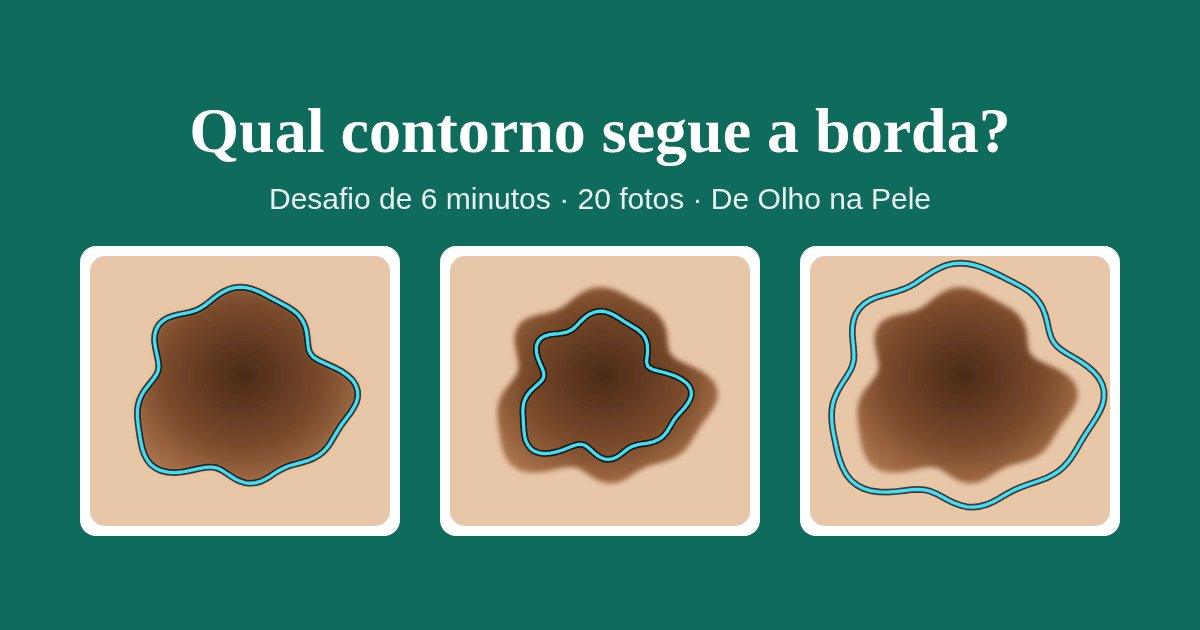
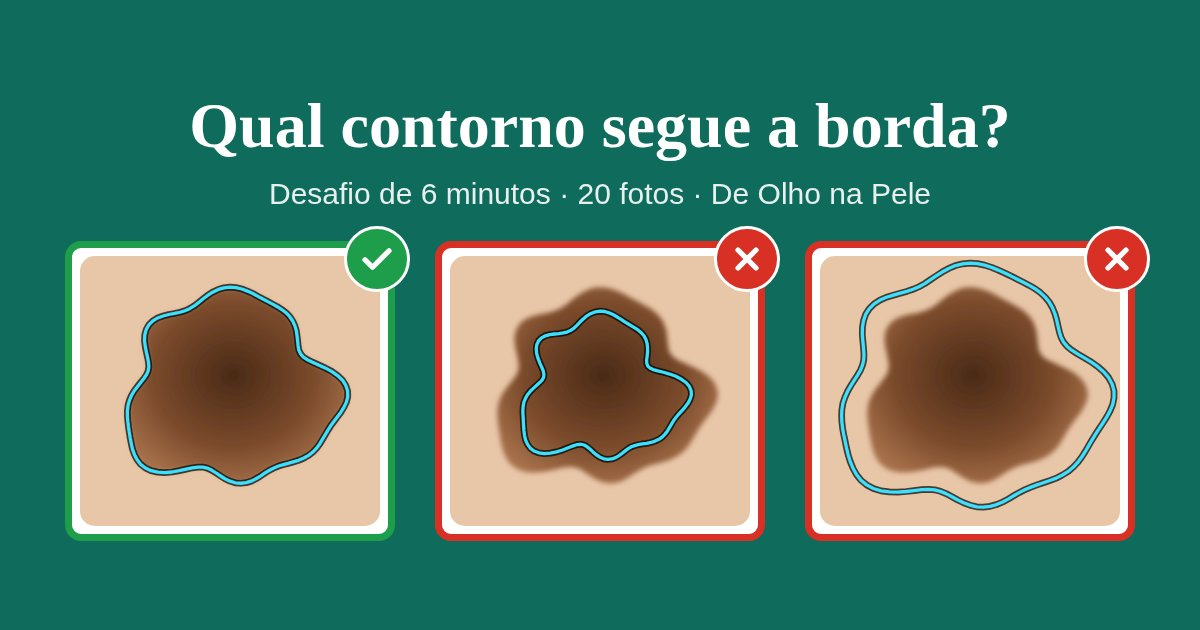
painel: exemplo com moldura verde/certo e vermelha/errado; capa do link idem
Claude-Session: https://claude.ai/code/session_01Byw2vsqtUZhDbw1n3RnuWN

diff --git a/desafio-contorno/painel/index.html b/desafio-contorno/painel/index.html
@@ -74,11 +74,16 @@ textarea{width:100%;font:13px var(--mono);padding:8px;border:1px solid var(--lin
   .exemplo h2{font:600 18px/1.3 var(--body);margin:0 0 6px}
   .ex-grade{display:grid;grid-template-columns:repeat(3,1fr);gap:12px;margin-top:10px}
   .ex-grade figure{margin:0;text-align:center}
-  .ex-grade svg{width:100%;height:auto;display:block}
+  .ex-grade figure>svg{width:100%;height:auto;display:block}
   .ex-grade figcaption{margin-top:6px;font:14px/1.3 var(--body);padding:0;border:0}
   .ex-grade figcaption .small{font-size:12.5px}
   .ex-grade figure{border:0;background:none}
   @media (max-width:560px){.ex-grade{grid-template-columns:1fr;max-width:260px;margin-left:auto;margin-right:auto}}
+  .ex-grade figure.ok,.ex-grade figure.no{position:relative;border:4px solid;border-radius:14px;padding:6px;background:var(--surface);overflow:visible;margin-top:10px}
+  .ex-grade figure.ok{border-color:#1e9e4a}.ex-grade figure.no{border-color:#d93025}
+  .ex-grade .selo{position:absolute;top:-16px;right:-12px;width:40px;height:40px;border-radius:50%;display:grid;place-items:center;box-shadow:0 1px 3px rgba(0,0,0,.35);border:2px solid #fff}.ex-grade .selo svg{width:22px;height:22px}
+  .ex-grade .ok .selo{background:#1e9e4a}.ex-grade .no .selo{background:#d93025}
+  .ex-grade .ok b{color:#1e9e4a}.ex-grade .no b{color:#d93025}
 </style>
 
 <style>[hidden]{display:none!important}body{margin:0}img{max-width:100%}</style>
@@ -98,9 +103,9 @@ textarea{width:100%;font:13px var(--mono);padding:8px;border:1px solid var(--lin
       <h2 data-i="ex_t">Antes de começar: o que é seguir a borda</h2>
       <p class="muted" data-i="ex_p">A borda da lesão é o limite onde a pigmentação termina e começa a pele normal. Um bom contorno acompanha esse limite. O desenho abaixo é só um exemplo esquemático, não é uma foto do estudo.</p>
       <div class="ex-grade">
-        <figure><svg viewBox="0 0 200 180" role="img" aria-hidden="true"><defs><radialGradient id="ga" cx="48%" cy="45%" r="60%"><stop offset="0" stop-color="#4a2a17"/><stop offset=".6" stop-color="#7a4a2b"/><stop offset="1" stop-color="#a9724c"/></radialGradient><filter id="fa"><feGaussianBlur stdDeviation="1.6"/></filter></defs><rect width="200" height="180" rx="10" fill="#e8c6a8"/><path d="M178.4,90.0 L178.5,93.7 L177.6,97.4 L175.9,100.9 L173.8,104.3 L171.5,107.4 L169.2,110.4 L167.0,113.4 L165.1,116.4 L163.4,119.3 L161.6,122.3 L159.8,125.3 L157.7,128.1 L155.2,130.7 L152.4,132.9 L149.2,134.7 L145.7,136.2 L142.1,137.3 L138.6,138.3 L135.1,139.2 L131.9,140.2 L128.9,141.5 L126.0,143.0 L123.1,144.8 L120.3,146.7 L117.3,148.5 L114.1,150.1 L110.7,151.1 L107.1,151.5 L103.5,151.2 L100.0,150.1 L96.6,148.5 L93.5,146.5 L90.5,144.5 L87.7,142.7 L84.8,141.4 L81.9,140.7 L78.6,140.7 L74.9,141.2 L70.8,142.1 L66.3,143.1 L61.4,144.0 L56.5,144.4 L51.8,144.1 L47.4,143.1 L43.6,141.3 L40.4,138.8 L38.0,135.7 L36.2,132.1 L34.9,128.4 L34.1,124.6 L33.4,120.9 L32.8,117.2 L32.3,113.6 L31.9,110.1 L31.6,106.7 L31.6,103.2 L32.0,99.8 L32.9,96.4 L34.3,93.1 L36.1,90.0 L38.3,87.1 L40.5,84.3 L42.6,81.7 L44.3,79.2 L45.4,76.7 L45.9,74.0 L45.7,71.1 L45.1,67.8 L44.3,64.2 L43.5,60.3 L43.0,56.4 L43.2,52.5 L44.2,48.9 L46.0,45.8 L48.6,43.2 L51.8,41.3 L55.4,40.0 L59.2,39.0 L63.0,38.3 L66.7,37.5 L70.0,36.5 L73.1,35.1 L76.1,33.3 L79.0,31.1 L81.9,28.7 L85.1,26.3 L88.5,24.1 L92.2,22.3 L96.0,21.2 L100.0,20.8 L104.0,21.1 L107.9,22.0 L111.6,23.4 L115.2,25.0 L118.6,26.9 L121.9,28.7 L125.2,30.4 L128.4,32.1 L131.5,33.8 L134.5,35.7 L137.3,37.8 L139.7,40.3 L141.7,43.2 L143.2,46.4 L144.2,49.8 L144.7,53.4 L145.1,56.8 L145.4,60.0 L145.9,62.9 L147.1,65.3 L148.9,67.4 L151.5,69.1 L155.0,70.8 L159.0,72.6 L163.4,74.6 L167.7,76.9 L171.7,79.7 L175.0,82.8 L177.2,86.3 Z" fill="url(#ga)" filter="url(#fa)"/><path d="M178.4,90.0 L178.5,93.7 L177.6,97.4 L175.9,100.9 L173.8,104.3 L171.5,107.4 L169.2,110.4 L167.0,113.4 L165.1,116.4 L163.4,119.3 L161.6,122.3 L159.8,125.3 L157.7,128.1 L155.2,130.7 L152.4,132.9 L149.2,134.7 L145.7,136.2 L142.1,137.3 L138.6,138.3 L135.1,139.2 L131.9,140.2 L128.9,141.5 L126.0,143.0 L123.1,144.8 L120.3,146.7 L117.3,148.5 L114.1,150.1 L110.7,151.1 L107.1,151.5 L103.5,151.2 L100.0,150.1 L96.6,148.5 L93.5,146.5 L90.5,144.5 L87.7,142.7 L84.8,141.4 L81.9,140.7 L78.6,140.7 L74.9,141.2 L70.8,142.1 L66.3,143.1 L61.4,144.0 L56.5,144.4 L51.8,144.1 L47.4,143.1 L43.6,141.3 L40.4,138.8 L38.0,135.7 L36.2,132.1 L34.9,128.4 L34.1,124.6 L33.4,120.9 L32.8,117.2 L32.3,113.6 L31.9,110.1 L31.6,106.7 L31.6,103.2 L32.0,99.8 L32.9,96.4 L34.3,93.1 L36.1,90.0 L38.3,87.1 L40.5,84.3 L42.6,81.7 L44.3,79.2 L45.4,76.7 L45.9,74.0 L45.7,71.1 L45.1,67.8 L44.3,64.2 L43.5,60.3 L43.0,56.4 L43.2,52.5 L44.2,48.9 L46.0,45.8 L48.6,43.2 L51.8,41.3 L55.4,40.0 L59.2,39.0 L63.0,38.3 L66.7,37.5 L70.0,36.5 L73.1,35.1 L76.1,33.3 L79.0,31.1 L81.9,28.7 L85.1,26.3 L88.5,24.1 L92.2,22.3 L96.0,21.2 L100.0,20.8 L104.0,21.1 L107.9,22.0 L111.6,23.4 L115.2,25.0 L118.6,26.9 L121.9,28.7 L125.2,30.4 L128.4,32.1 L131.5,33.8 L134.5,35.7 L137.3,37.8 L139.7,40.3 L141.7,43.2 L143.2,46.4 L144.2,49.8 L144.7,53.4 L145.1,56.8 L145.4,60.0 L145.9,62.9 L147.1,65.3 L148.9,67.4 L151.5,69.1 L155.0,70.8 L159.0,72.6 L163.4,74.6 L167.7,76.9 L171.7,79.7 L175.0,82.8 L177.2,86.3 Z" fill="none" stroke="rgba(0,0,0,.7)" stroke-width="4.5" stroke-linejoin="round"/><path d="M178.4,90.0 L178.5,93.7 L177.6,97.4 L175.9,100.9 L173.8,104.3 L171.5,107.4 L169.2,110.4 L167.0,113.4 L165.1,116.4 L163.4,119.3 L161.6,122.3 L159.8,125.3 L157.7,128.1 L155.2,130.7 L152.4,132.9 L149.2,134.7 L145.7,136.2 L142.1,137.3 L138.6,138.3 L135.1,139.2 L131.9,140.2 L128.9,141.5 L126.0,143.0 L123.1,144.8 L120.3,146.7 L117.3,148.5 L114.1,150.1 L110.7,151.1 L107.1,151.5 L103.5,151.2 L100.0,150.1 L96.6,148.5 L93.5,146.5 L90.5,144.5 L87.7,142.7 L84.8,141.4 L81.9,140.7 L78.6,140.7 L74.9,141.2 L70.8,142.1 L66.3,143.1 L61.4,144.0 L56.5,144.4 L51.8,144.1 L47.4,143.1 L43.6,141.3 L40.4,138.8 L38.0,135.7 L36.2,132.1 L34.9,128.4 L34.1,124.6 L33.4,120.9 L32.8,117.2 L32.3,113.6 L31.9,110.1 L31.6,106.7 L31.6,103.2 L32.0,99.8 L32.9,96.4 L34.3,93.1 L36.1,90.0 L38.3,87.1 L40.5,84.3 L42.6,81.7 L44.3,79.2 L45.4,76.7 L45.9,74.0 L45.7,71.1 L45.1,67.8 L44.3,64.2 L43.5,60.3 L43.0,56.4 L43.2,52.5 L44.2,48.9 L46.0,45.8 L48.6,43.2 L51.8,41.3 L55.4,40.0 L59.2,39.0 L63.0,38.3 L66.7,37.5 L70.0,36.5 L73.1,35.1 L76.1,33.3 L79.0,31.1 L81.9,28.7 L85.1,26.3 L88.5,24.1 L92.2,22.3 L96.0,21.2 L100.0,20.8 L104.0,21.1 L107.9,22.0 L111.6,23.4 L115.2,25.0 L118.6,26.9 L121.9,28.7 L125.2,30.4 L128.4,32.1 L131.5,33.8 L134.5,35.7 L137.3,37.8 L139.7,40.3 L141.7,43.2 L143.2,46.4 L144.2,49.8 L144.7,53.4 L145.1,56.8 L145.4,60.0 L145.9,62.9 L147.1,65.3 L148.9,67.4 L151.5,69.1 L155.0,70.8 L159.0,72.6 L163.4,74.6 L167.7,76.9 L171.7,79.7 L175.0,82.8 L177.2,86.3 Z" fill="none" stroke="var(--trace)" stroke-width="2.2" stroke-linejoin="round"/></svg><figcaption><b data-i="ex_c1">Segue a borda</b><br><span class="muted small" data-i="ex_c1b">acompanha o limite entre a lesão e a pele</span></figcaption></figure>
-        <figure><svg viewBox="0 0 200 180" role="img" aria-hidden="true"><defs><radialGradient id="gb" cx="48%" cy="45%" r="60%"><stop offset="0" stop-color="#4a2a17"/><stop offset=".6" stop-color="#7a4a2b"/><stop offset="1" stop-color="#a9724c"/></radialGradient><filter id="fb"><feGaussianBlur stdDeviation="1.6"/></filter></defs><rect width="200" height="180" rx="10" fill="#e8c6a8"/><path d="M178.4,90.0 L178.5,93.7 L177.6,97.4 L175.9,100.9 L173.8,104.3 L171.5,107.4 L169.2,110.4 L167.0,113.4 L165.1,116.4 L163.4,119.3 L161.6,122.3 L159.8,125.3 L157.7,128.1 L155.2,130.7 L152.4,132.9 L149.2,134.7 L145.7,136.2 L142.1,137.3 L138.6,138.3 L135.1,139.2 L131.9,140.2 L128.9,141.5 L126.0,143.0 L123.1,144.8 L120.3,146.7 L117.3,148.5 L114.1,150.1 L110.7,151.1 L107.1,151.5 L103.5,151.2 L100.0,150.1 L96.6,148.5 L93.5,146.5 L90.5,144.5 L87.7,142.7 L84.8,141.4 L81.9,140.7 L78.6,140.7 L74.9,141.2 L70.8,142.1 L66.3,143.1 L61.4,144.0 L56.5,144.4 L51.8,144.1 L47.4,143.1 L43.6,141.3 L40.4,138.8 L38.0,135.7 L36.2,132.1 L34.9,128.4 L34.1,124.6 L33.4,120.9 L32.8,117.2 L32.3,113.6 L31.9,110.1 L31.6,106.7 L31.6,103.2 L32.0,99.8 L32.9,96.4 L34.3,93.1 L36.1,90.0 L38.3,87.1 L40.5,84.3 L42.6,81.7 L44.3,79.2 L45.4,76.7 L45.9,74.0 L45.7,71.1 L45.1,67.8 L44.3,64.2 L43.5,60.3 L43.0,56.4 L43.2,52.5 L44.2,48.9 L46.0,45.8 L48.6,43.2 L51.8,41.3 L55.4,40.0 L59.2,39.0 L63.0,38.3 L66.7,37.5 L70.0,36.5 L73.1,35.1 L76.1,33.3 L79.0,31.1 L81.9,28.7 L85.1,26.3 L88.5,24.1 L92.2,22.3 L96.0,21.2 L100.0,20.8 L104.0,21.1 L107.9,22.0 L111.6,23.4 L115.2,25.0 L118.6,26.9 L121.9,28.7 L125.2,30.4 L128.4,32.1 L131.5,33.8 L134.5,35.7 L137.3,37.8 L139.7,40.3 L141.7,43.2 L143.2,46.4 L144.2,49.8 L144.7,53.4 L145.1,56.8 L145.4,60.0 L145.9,62.9 L147.1,65.3 L148.9,67.4 L151.5,69.1 L155.0,70.8 L159.0,72.6 L163.4,74.6 L167.7,76.9 L171.7,79.7 L175.0,82.8 L177.2,86.3 Z" fill="url(#gb)" filter="url(#fb)"/><path d="M160.8,90.0 L160.9,92.9 L160.0,95.7 L158.5,98.4 L156.6,100.9 L154.5,103.3 L152.4,105.5 L150.6,107.7 L149.0,109.8 L147.7,112.1 L146.4,114.3 L145.0,116.6 L143.4,118.7 L141.6,120.6 L139.3,122.2 L136.7,123.4 L133.9,124.3 L131.1,124.9 L128.2,125.3 L125.5,125.8 L123.1,126.4 L120.9,127.2 L118.8,128.4 L116.8,129.9 L114.8,131.5 L112.7,133.1 L110.4,134.4 L107.9,135.3 L105.3,135.6 L102.6,135.2 L100.0,134.1 L97.5,132.5 L95.3,130.6 L93.3,128.7 L91.3,127.1 L89.4,126.0 L87.3,125.5 L84.9,125.7 L82.1,126.6 L78.8,127.8 L75.1,129.3 L71.0,130.6 L66.9,131.4 L62.9,131.7 L59.2,131.2 L56.0,130.0 L53.5,128.1 L51.7,125.6 L50.4,122.7 L49.7,119.7 L49.3,116.6 L49.1,113.6 L48.9,110.7 L48.8,107.9 L48.6,105.2 L48.6,102.5 L48.8,99.9 L49.3,97.3 L50.4,94.7 L51.8,92.3 L53.7,90.0 L55.9,87.9 L58.0,86.0 L60.0,84.2 L61.5,82.6 L62.4,80.8 L62.6,79.0 L62.2,76.8 L61.2,74.3 L59.9,71.4 L58.7,68.3 L57.8,65.1 L57.5,61.9 L57.9,59.0 L59.1,56.5 L61.0,54.6 L63.6,53.2 L66.5,52.4 L69.6,52.0 L72.6,51.7 L75.5,51.3 L78.0,50.7 L80.3,49.7 L82.4,48.3 L84.4,46.4 L86.5,44.2 L88.8,42.0 L91.3,39.9 L94.0,38.3 L97.0,37.2 L100.0,36.8 L103.1,37.0 L106.0,37.9 L108.9,39.2 L111.5,40.7 L114.1,42.3 L116.5,43.9 L118.9,45.3 L121.2,46.7 L123.5,48.1 L125.7,49.6 L127.7,51.3 L129.4,53.3 L130.6,55.6 L131.4,58.3 L131.7,61.2 L131.7,64.1 L131.4,66.9 L131.1,69.4 L131.2,71.6 L131.8,73.3 L133.2,74.6 L135.4,75.7 L138.5,76.6 L142.3,77.5 L146.4,78.7 L150.5,80.2 L154.3,82.2 L157.5,84.5 L159.7,87.2 Z" fill="none" stroke="rgba(0,0,0,.7)" stroke-width="4.5" stroke-linejoin="round"/><path d="M160.8,90.0 L160.9,92.9 L160.0,95.7 L158.5,98.4 L156.6,100.9 L154.5,103.3 L152.4,105.5 L150.6,107.7 L149.0,109.8 L147.7,112.1 L146.4,114.3 L145.0,116.6 L143.4,118.7 L141.6,120.6 L139.3,122.2 L136.7,123.4 L133.9,124.3 L131.1,124.9 L128.2,125.3 L125.5,125.8 L123.1,126.4 L120.9,127.2 L118.8,128.4 L116.8,129.9 L114.8,131.5 L112.7,133.1 L110.4,134.4 L107.9,135.3 L105.3,135.6 L102.6,135.2 L100.0,134.1 L97.5,132.5 L95.3,130.6 L93.3,128.7 L91.3,127.1 L89.4,126.0 L87.3,125.5 L84.9,125.7 L82.1,126.6 L78.8,127.8 L75.1,129.3 L71.0,130.6 L66.9,131.4 L62.9,131.7 L59.2,131.2 L56.0,130.0 L53.5,128.1 L51.7,125.6 L50.4,122.7 L49.7,119.7 L49.3,116.6 L49.1,113.6 L48.9,110.7 L48.8,107.9 L48.6,105.2 L48.6,102.5 L48.8,99.9 L49.3,97.3 L50.4,94.7 L51.8,92.3 L53.7,90.0 L55.9,87.9 L58.0,86.0 L60.0,84.2 L61.5,82.6 L62.4,80.8 L62.6,79.0 L62.2,76.8 L61.2,74.3 L59.9,71.4 L58.7,68.3 L57.8,65.1 L57.5,61.9 L57.9,59.0 L59.1,56.5 L61.0,54.6 L63.6,53.2 L66.5,52.4 L69.6,52.0 L72.6,51.7 L75.5,51.3 L78.0,50.7 L80.3,49.7 L82.4,48.3 L84.4,46.4 L86.5,44.2 L88.8,42.0 L91.3,39.9 L94.0,38.3 L97.0,37.2 L100.0,36.8 L103.1,37.0 L106.0,37.9 L108.9,39.2 L111.5,40.7 L114.1,42.3 L116.5,43.9 L118.9,45.3 L121.2,46.7 L123.5,48.1 L125.7,49.6 L127.7,51.3 L129.4,53.3 L130.6,55.6 L131.4,58.3 L131.7,61.2 L131.7,64.1 L131.4,66.9 L131.1,69.4 L131.2,71.6 L131.8,73.3 L133.2,74.6 L135.4,75.7 L138.5,76.6 L142.3,77.5 L146.4,78.7 L150.5,80.2 L154.3,82.2 L157.5,84.5 L159.7,87.2 Z" fill="none" stroke="var(--trace)" stroke-width="2.2" stroke-linejoin="round"/></svg><figcaption><b data-i="ex_c2">Pequeno demais</b><br><span class="muted small" data-i="ex_c2b">corta por dentro e deixa parte da lesão de fora</span></figcaption></figure>
-        <figure><svg viewBox="0 0 200 180" role="img" aria-hidden="true"><defs><radialGradient id="gc" cx="48%" cy="45%" r="60%"><stop offset="0" stop-color="#4a2a17"/><stop offset=".6" stop-color="#7a4a2b"/><stop offset="1" stop-color="#a9724c"/></radialGradient><filter id="fc"><feGaussianBlur stdDeviation="1.6"/></filter></defs><rect width="200" height="180" rx="10" fill="#e8c6a8"/><path d="M178.4,90.0 L178.5,93.7 L177.6,97.4 L175.9,100.9 L173.8,104.3 L171.5,107.4 L169.2,110.4 L167.0,113.4 L165.1,116.4 L163.4,119.3 L161.6,122.3 L159.8,125.3 L157.7,128.1 L155.2,130.7 L152.4,132.9 L149.2,134.7 L145.7,136.2 L142.1,137.3 L138.6,138.3 L135.1,139.2 L131.9,140.2 L128.9,141.5 L126.0,143.0 L123.1,144.8 L120.3,146.7 L117.3,148.5 L114.1,150.1 L110.7,151.1 L107.1,151.5 L103.5,151.2 L100.0,150.1 L96.6,148.5 L93.5,146.5 L90.5,144.5 L87.7,142.7 L84.8,141.4 L81.9,140.7 L78.6,140.7 L74.9,141.2 L70.8,142.1 L66.3,143.1 L61.4,144.0 L56.5,144.4 L51.8,144.1 L47.4,143.1 L43.6,141.3 L40.4,138.8 L38.0,135.7 L36.2,132.1 L34.9,128.4 L34.1,124.6 L33.4,120.9 L32.8,117.2 L32.3,113.6 L31.9,110.1 L31.6,106.7 L31.6,103.2 L32.0,99.8 L32.9,96.4 L34.3,93.1 L36.1,90.0 L38.3,87.1 L40.5,84.3 L42.6,81.7 L44.3,79.2 L45.4,76.7 L45.9,74.0 L45.7,71.1 L45.1,67.8 L44.3,64.2 L43.5,60.3 L43.0,56.4 L43.2,52.5 L44.2,48.9 L46.0,45.8 L48.6,43.2 L51.8,41.3 L55.4,40.0 L59.2,39.0 L63.0,38.3 L66.7,37.5 L70.0,36.5 L73.1,35.1 L76.1,33.3 L79.0,31.1 L81.9,28.7 L85.1,26.3 L88.5,24.1 L92.2,22.3 L96.0,21.2 L100.0,20.8 L104.0,21.1 L107.9,22.0 L111.6,23.4 L115.2,25.0 L118.6,26.9 L121.9,28.7 L125.2,30.4 L128.4,32.1 L131.5,33.8 L134.5,35.7 L137.3,37.8 L139.7,40.3 L141.7,43.2 L143.2,46.4 L144.2,49.8 L144.7,53.4 L145.1,56.8 L145.4,60.0 L145.9,62.9 L147.1,65.3 L148.9,67.4 L151.5,69.1 L155.0,70.8 L159.0,72.6 L163.4,74.6 L167.7,76.9 L171.7,79.7 L175.0,82.8 L177.2,86.3 Z" fill="url(#gc)" filter="url(#fc)"/><path d="M196.0,90.0 L196.0,94.6 L195.1,99.1 L193.3,103.4 L191.0,107.6 L188.5,111.5 L185.9,115.4 L183.5,119.1 L181.2,122.9 L179.0,126.6 L176.9,130.3 L174.5,134.0 L171.9,137.5 L168.9,140.7 L165.5,143.6 L161.6,146.0 L157.5,148.1 L153.2,149.7 L148.9,151.2 L144.7,152.6 L140.7,154.1 L136.8,155.7 L133.1,157.6 L129.4,159.7 L125.7,161.9 L121.8,164.0 L117.7,165.7 L113.4,166.9 L109.0,167.4 L104.4,167.2 L100.0,166.1 L95.7,164.5 L91.6,162.5 L87.7,160.3 L84.0,158.4 L80.3,156.9 L76.4,155.9 L72.3,155.6 L67.8,155.8 L62.8,156.4 L57.5,157.0 L51.9,157.4 L46.2,157.3 L40.7,156.6 L35.6,155.0 L31.1,152.6 L27.3,149.5 L24.3,145.7 L22.0,141.5 L20.2,137.1 L18.8,132.6 L17.7,128.1 L16.8,123.7 L15.9,119.4 L15.1,115.1 L14.6,110.8 L14.4,106.5 L14.6,102.3 L15.3,98.1 L16.7,94.0 L18.5,90.0 L20.7,86.2 L23.0,82.6 L25.2,79.2 L27.1,75.9 L28.4,72.6 L29.2,69.1 L29.3,65.3 L29.0,61.3 L28.6,56.9 L28.2,52.3 L28.3,47.7 L29.0,43.1 L30.5,38.8 L32.9,35.1 L36.1,31.9 L40.0,29.4 L44.3,27.5 L48.9,26.1 L53.5,24.8 L57.9,23.6 L62.0,22.2 L66.0,20.5 L69.8,18.4 L73.5,15.9 L77.4,13.3 L81.4,10.7 L85.8,8.3 L90.3,6.4 L95.1,5.2 L100.0,4.8 L104.9,5.1 L109.7,6.1 L114.4,7.6 L118.8,9.4 L123.2,11.4 L127.4,13.4 L131.5,15.5 L135.5,17.5 L139.5,19.6 L143.3,21.8 L146.9,24.4 L150.1,27.4 L152.8,30.7 L155.0,34.5 L156.6,38.5 L157.8,42.7 L158.7,46.8 L159.6,50.6 L160.7,54.2 L162.3,57.3 L164.6,60.1 L167.6,62.6 L171.4,65.1 L175.7,67.6 L180.4,70.4 L185.0,73.6 L189.1,77.2 L192.5,81.2 L194.8,85.5 Z" fill="none" stroke="rgba(0,0,0,.7)" stroke-width="4.5" stroke-linejoin="round"/><path d="M196.0,90.0 L196.0,94.6 L195.1,99.1 L193.3,103.4 L191.0,107.6 L188.5,111.5 L185.9,115.4 L183.5,119.1 L181.2,122.9 L179.0,126.6 L176.9,130.3 L174.5,134.0 L171.9,137.5 L168.9,140.7 L165.5,143.6 L161.6,146.0 L157.5,148.1 L153.2,149.7 L148.9,151.2 L144.7,152.6 L140.7,154.1 L136.8,155.7 L133.1,157.6 L129.4,159.7 L125.7,161.9 L121.8,164.0 L117.7,165.7 L113.4,166.9 L109.0,167.4 L104.4,167.2 L100.0,166.1 L95.7,164.5 L91.6,162.5 L87.7,160.3 L84.0,158.4 L80.3,156.9 L76.4,155.9 L72.3,155.6 L67.8,155.8 L62.8,156.4 L57.5,157.0 L51.9,157.4 L46.2,157.3 L40.7,156.6 L35.6,155.0 L31.1,152.6 L27.3,149.5 L24.3,145.7 L22.0,141.5 L20.2,137.1 L18.8,132.6 L17.7,128.1 L16.8,123.7 L15.9,119.4 L15.1,115.1 L14.6,110.8 L14.4,106.5 L14.6,102.3 L15.3,98.1 L16.7,94.0 L18.5,90.0 L20.7,86.2 L23.0,82.6 L25.2,79.2 L27.1,75.9 L28.4,72.6 L29.2,69.1 L29.3,65.3 L29.0,61.3 L28.6,56.9 L28.2,52.3 L28.3,47.7 L29.0,43.1 L30.5,38.8 L32.9,35.1 L36.1,31.9 L40.0,29.4 L44.3,27.5 L48.9,26.1 L53.5,24.8 L57.9,23.6 L62.0,22.2 L66.0,20.5 L69.8,18.4 L73.5,15.9 L77.4,13.3 L81.4,10.7 L85.8,8.3 L90.3,6.4 L95.1,5.2 L100.0,4.8 L104.9,5.1 L109.7,6.1 L114.4,7.6 L118.8,9.4 L123.2,11.4 L127.4,13.4 L131.5,15.5 L135.5,17.5 L139.5,19.6 L143.3,21.8 L146.9,24.4 L150.1,27.4 L152.8,30.7 L155.0,34.5 L156.6,38.5 L157.8,42.7 L158.7,46.8 L159.6,50.6 L160.7,54.2 L162.3,57.3 L164.6,60.1 L167.6,62.6 L171.4,65.1 L175.7,67.6 L180.4,70.4 L185.0,73.6 L189.1,77.2 L192.5,81.2 L194.8,85.5 Z" fill="none" stroke="var(--trace)" stroke-width="2.2" stroke-linejoin="round"/></svg><figcaption><b data-i="ex_c3">Grande demais</b><br><span class="muted small" data-i="ex_c3b">inclui pele normal em volta da lesão</span></figcaption></figure>
+        <figure class="ok"><span class="selo" aria-hidden="true"><svg viewBox="0 0 24 24"><path d="M4 12.5l5 5L20 6.5" fill="none" stroke="#fff" stroke-width="3.5" stroke-linecap="round" stroke-linejoin="round"/></svg></span><svg viewBox="0 0 200 180" role="img" aria-hidden="true"><defs><radialGradient id="ga" cx="48%" cy="45%" r="60%"><stop offset="0" stop-color="#4a2a17"/><stop offset=".6" stop-color="#7a4a2b"/><stop offset="1" stop-color="#a9724c"/></radialGradient><filter id="fa"><feGaussianBlur stdDeviation="1.6"/></filter></defs><rect width="200" height="180" rx="10" fill="#e8c6a8"/><path d="M178.4,90.0 L178.5,93.7 L177.6,97.4 L175.9,100.9 L173.8,104.3 L171.5,107.4 L169.2,110.4 L167.0,113.4 L165.1,116.4 L163.4,119.3 L161.6,122.3 L159.8,125.3 L157.7,128.1 L155.2,130.7 L152.4,132.9 L149.2,134.7 L145.7,136.2 L142.1,137.3 L138.6,138.3 L135.1,139.2 L131.9,140.2 L128.9,141.5 L126.0,143.0 L123.1,144.8 L120.3,146.7 L117.3,148.5 L114.1,150.1 L110.7,151.1 L107.1,151.5 L103.5,151.2 L100.0,150.1 L96.6,148.5 L93.5,146.5 L90.5,144.5 L87.7,142.7 L84.8,141.4 L81.9,140.7 L78.6,140.7 L74.9,141.2 L70.8,142.1 L66.3,143.1 L61.4,144.0 L56.5,144.4 L51.8,144.1 L47.4,143.1 L43.6,141.3 L40.4,138.8 L38.0,135.7 L36.2,132.1 L34.9,128.4 L34.1,124.6 L33.4,120.9 L32.8,117.2 L32.3,113.6 L31.9,110.1 L31.6,106.7 L31.6,103.2 L32.0,99.8 L32.9,96.4 L34.3,93.1 L36.1,90.0 L38.3,87.1 L40.5,84.3 L42.6,81.7 L44.3,79.2 L45.4,76.7 L45.9,74.0 L45.7,71.1 L45.1,67.8 L44.3,64.2 L43.5,60.3 L43.0,56.4 L43.2,52.5 L44.2,48.9 L46.0,45.8 L48.6,43.2 L51.8,41.3 L55.4,40.0 L59.2,39.0 L63.0,38.3 L66.7,37.5 L70.0,36.5 L73.1,35.1 L76.1,33.3 L79.0,31.1 L81.9,28.7 L85.1,26.3 L88.5,24.1 L92.2,22.3 L96.0,21.2 L100.0,20.8 L104.0,21.1 L107.9,22.0 L111.6,23.4 L115.2,25.0 L118.6,26.9 L121.9,28.7 L125.2,30.4 L128.4,32.1 L131.5,33.8 L134.5,35.7 L137.3,37.8 L139.7,40.3 L141.7,43.2 L143.2,46.4 L144.2,49.8 L144.7,53.4 L145.1,56.8 L145.4,60.0 L145.9,62.9 L147.1,65.3 L148.9,67.4 L151.5,69.1 L155.0,70.8 L159.0,72.6 L163.4,74.6 L167.7,76.9 L171.7,79.7 L175.0,82.8 L177.2,86.3 Z" fill="url(#ga)" filter="url(#fa)"/><path d="M178.4,90.0 L178.5,93.7 L177.6,97.4 L175.9,100.9 L173.8,104.3 L171.5,107.4 L169.2,110.4 L167.0,113.4 L165.1,116.4 L163.4,119.3 L161.6,122.3 L159.8,125.3 L157.7,128.1 L155.2,130.7 L152.4,132.9 L149.2,134.7 L145.7,136.2 L142.1,137.3 L138.6,138.3 L135.1,139.2 L131.9,140.2 L128.9,141.5 L126.0,143.0 L123.1,144.8 L120.3,146.7 L117.3,148.5 L114.1,150.1 L110.7,151.1 L107.1,151.5 L103.5,151.2 L100.0,150.1 L96.6,148.5 L93.5,146.5 L90.5,144.5 L87.7,142.7 L84.8,141.4 L81.9,140.7 L78.6,140.7 L74.9,141.2 L70.8,142.1 L66.3,143.1 L61.4,144.0 L56.5,144.4 L51.8,144.1 L47.4,143.1 L43.6,141.3 L40.4,138.8 L38.0,135.7 L36.2,132.1 L34.9,128.4 L34.1,124.6 L33.4,120.9 L32.8,117.2 L32.3,113.6 L31.9,110.1 L31.6,106.7 L31.6,103.2 L32.0,99.8 L32.9,96.4 L34.3,93.1 L36.1,90.0 L38.3,87.1 L40.5,84.3 L42.6,81.7 L44.3,79.2 L45.4,76.7 L45.9,74.0 L45.7,71.1 L45.1,67.8 L44.3,64.2 L43.5,60.3 L43.0,56.4 L43.2,52.5 L44.2,48.9 L46.0,45.8 L48.6,43.2 L51.8,41.3 L55.4,40.0 L59.2,39.0 L63.0,38.3 L66.7,37.5 L70.0,36.5 L73.1,35.1 L76.1,33.3 L79.0,31.1 L81.9,28.7 L85.1,26.3 L88.5,24.1 L92.2,22.3 L96.0,21.2 L100.0,20.8 L104.0,21.1 L107.9,22.0 L111.6,23.4 L115.2,25.0 L118.6,26.9 L121.9,28.7 L125.2,30.4 L128.4,32.1 L131.5,33.8 L134.5,35.7 L137.3,37.8 L139.7,40.3 L141.7,43.2 L143.2,46.4 L144.2,49.8 L144.7,53.4 L145.1,56.8 L145.4,60.0 L145.9,62.9 L147.1,65.3 L148.9,67.4 L151.5,69.1 L155.0,70.8 L159.0,72.6 L163.4,74.6 L167.7,76.9 L171.7,79.7 L175.0,82.8 L177.2,86.3 Z" fill="none" stroke="rgba(0,0,0,.7)" stroke-width="4.5" stroke-linejoin="round"/><path d="M178.4,90.0 L178.5,93.7 L177.6,97.4 L175.9,100.9 L173.8,104.3 L171.5,107.4 L169.2,110.4 L167.0,113.4 L165.1,116.4 L163.4,119.3 L161.6,122.3 L159.8,125.3 L157.7,128.1 L155.2,130.7 L152.4,132.9 L149.2,134.7 L145.7,136.2 L142.1,137.3 L138.6,138.3 L135.1,139.2 L131.9,140.2 L128.9,141.5 L126.0,143.0 L123.1,144.8 L120.3,146.7 L117.3,148.5 L114.1,150.1 L110.7,151.1 L107.1,151.5 L103.5,151.2 L100.0,150.1 L96.6,148.5 L93.5,146.5 L90.5,144.5 L87.7,142.7 L84.8,141.4 L81.9,140.7 L78.6,140.7 L74.9,141.2 L70.8,142.1 L66.3,143.1 L61.4,144.0 L56.5,144.4 L51.8,144.1 L47.4,143.1 L43.6,141.3 L40.4,138.8 L38.0,135.7 L36.2,132.1 L34.9,128.4 L34.1,124.6 L33.4,120.9 L32.8,117.2 L32.3,113.6 L31.9,110.1 L31.6,106.7 L31.6,103.2 L32.0,99.8 L32.9,96.4 L34.3,93.1 L36.1,90.0 L38.3,87.1 L40.5,84.3 L42.6,81.7 L44.3,79.2 L45.4,76.7 L45.9,74.0 L45.7,71.1 L45.1,67.8 L44.3,64.2 L43.5,60.3 L43.0,56.4 L43.2,52.5 L44.2,48.9 L46.0,45.8 L48.6,43.2 L51.8,41.3 L55.4,40.0 L59.2,39.0 L63.0,38.3 L66.7,37.5 L70.0,36.5 L73.1,35.1 L76.1,33.3 L79.0,31.1 L81.9,28.7 L85.1,26.3 L88.5,24.1 L92.2,22.3 L96.0,21.2 L100.0,20.8 L104.0,21.1 L107.9,22.0 L111.6,23.4 L115.2,25.0 L118.6,26.9 L121.9,28.7 L125.2,30.4 L128.4,32.1 L131.5,33.8 L134.5,35.7 L137.3,37.8 L139.7,40.3 L141.7,43.2 L143.2,46.4 L144.2,49.8 L144.7,53.4 L145.1,56.8 L145.4,60.0 L145.9,62.9 L147.1,65.3 L148.9,67.4 L151.5,69.1 L155.0,70.8 L159.0,72.6 L163.4,74.6 L167.7,76.9 L171.7,79.7 L175.0,82.8 L177.2,86.3 Z" fill="none" stroke="var(--trace)" stroke-width="2.2" stroke-linejoin="round"/></svg><figcaption><b data-i="ex_c1">Certo: segue a borda</b><br><span class="muted small" data-i="ex_c1b">acompanha o limite entre a lesão e a pele</span></figcaption></figure>
+        <figure class="no"><span class="selo" aria-hidden="true"><svg viewBox="0 0 24 24"><path d="M6 6l12 12M18 6L6 18" fill="none" stroke="#fff" stroke-width="3.5" stroke-linecap="round"/></svg></span><svg viewBox="0 0 200 180" role="img" aria-hidden="true"><defs><radialGradient id="gb" cx="48%" cy="45%" r="60%"><stop offset="0" stop-color="#4a2a17"/><stop offset=".6" stop-color="#7a4a2b"/><stop offset="1" stop-color="#a9724c"/></radialGradient><filter id="fb"><feGaussianBlur stdDeviation="1.6"/></filter></defs><rect width="200" height="180" rx="10" fill="#e8c6a8"/><path d="M178.4,90.0 L178.5,93.7 L177.6,97.4 L175.9,100.9 L173.8,104.3 L171.5,107.4 L169.2,110.4 L167.0,113.4 L165.1,116.4 L163.4,119.3 L161.6,122.3 L159.8,125.3 L157.7,128.1 L155.2,130.7 L152.4,132.9 L149.2,134.7 L145.7,136.2 L142.1,137.3 L138.6,138.3 L135.1,139.2 L131.9,140.2 L128.9,141.5 L126.0,143.0 L123.1,144.8 L120.3,146.7 L117.3,148.5 L114.1,150.1 L110.7,151.1 L107.1,151.5 L103.5,151.2 L100.0,150.1 L96.6,148.5 L93.5,146.5 L90.5,144.5 L87.7,142.7 L84.8,141.4 L81.9,140.7 L78.6,140.7 L74.9,141.2 L70.8,142.1 L66.3,143.1 L61.4,144.0 L56.5,144.4 L51.8,144.1 L47.4,143.1 L43.6,141.3 L40.4,138.8 L38.0,135.7 L36.2,132.1 L34.9,128.4 L34.1,124.6 L33.4,120.9 L32.8,117.2 L32.3,113.6 L31.9,110.1 L31.6,106.7 L31.6,103.2 L32.0,99.8 L32.9,96.4 L34.3,93.1 L36.1,90.0 L38.3,87.1 L40.5,84.3 L42.6,81.7 L44.3,79.2 L45.4,76.7 L45.9,74.0 L45.7,71.1 L45.1,67.8 L44.3,64.2 L43.5,60.3 L43.0,56.4 L43.2,52.5 L44.2,48.9 L46.0,45.8 L48.6,43.2 L51.8,41.3 L55.4,40.0 L59.2,39.0 L63.0,38.3 L66.7,37.5 L70.0,36.5 L73.1,35.1 L76.1,33.3 L79.0,31.1 L81.9,28.7 L85.1,26.3 L88.5,24.1 L92.2,22.3 L96.0,21.2 L100.0,20.8 L104.0,21.1 L107.9,22.0 L111.6,23.4 L115.2,25.0 L118.6,26.9 L121.9,28.7 L125.2,30.4 L128.4,32.1 L131.5,33.8 L134.5,35.7 L137.3,37.8 L139.7,40.3 L141.7,43.2 L143.2,46.4 L144.2,49.8 L144.7,53.4 L145.1,56.8 L145.4,60.0 L145.9,62.9 L147.1,65.3 L148.9,67.4 L151.5,69.1 L155.0,70.8 L159.0,72.6 L163.4,74.6 L167.7,76.9 L171.7,79.7 L175.0,82.8 L177.2,86.3 Z" fill="url(#gb)" filter="url(#fb)"/><path d="M160.8,90.0 L160.9,92.9 L160.0,95.7 L158.5,98.4 L156.6,100.9 L154.5,103.3 L152.4,105.5 L150.6,107.7 L149.0,109.8 L147.7,112.1 L146.4,114.3 L145.0,116.6 L143.4,118.7 L141.6,120.6 L139.3,122.2 L136.7,123.4 L133.9,124.3 L131.1,124.9 L128.2,125.3 L125.5,125.8 L123.1,126.4 L120.9,127.2 L118.8,128.4 L116.8,129.9 L114.8,131.5 L112.7,133.1 L110.4,134.4 L107.9,135.3 L105.3,135.6 L102.6,135.2 L100.0,134.1 L97.5,132.5 L95.3,130.6 L93.3,128.7 L91.3,127.1 L89.4,126.0 L87.3,125.5 L84.9,125.7 L82.1,126.6 L78.8,127.8 L75.1,129.3 L71.0,130.6 L66.9,131.4 L62.9,131.7 L59.2,131.2 L56.0,130.0 L53.5,128.1 L51.7,125.6 L50.4,122.7 L49.7,119.7 L49.3,116.6 L49.1,113.6 L48.9,110.7 L48.8,107.9 L48.6,105.2 L48.6,102.5 L48.8,99.9 L49.3,97.3 L50.4,94.7 L51.8,92.3 L53.7,90.0 L55.9,87.9 L58.0,86.0 L60.0,84.2 L61.5,82.6 L62.4,80.8 L62.6,79.0 L62.2,76.8 L61.2,74.3 L59.9,71.4 L58.7,68.3 L57.8,65.1 L57.5,61.9 L57.9,59.0 L59.1,56.5 L61.0,54.6 L63.6,53.2 L66.5,52.4 L69.6,52.0 L72.6,51.7 L75.5,51.3 L78.0,50.7 L80.3,49.7 L82.4,48.3 L84.4,46.4 L86.5,44.2 L88.8,42.0 L91.3,39.9 L94.0,38.3 L97.0,37.2 L100.0,36.8 L103.1,37.0 L106.0,37.9 L108.9,39.2 L111.5,40.7 L114.1,42.3 L116.5,43.9 L118.9,45.3 L121.2,46.7 L123.5,48.1 L125.7,49.6 L127.7,51.3 L129.4,53.3 L130.6,55.6 L131.4,58.3 L131.7,61.2 L131.7,64.1 L131.4,66.9 L131.1,69.4 L131.2,71.6 L131.8,73.3 L133.2,74.6 L135.4,75.7 L138.5,76.6 L142.3,77.5 L146.4,78.7 L150.5,80.2 L154.3,82.2 L157.5,84.5 L159.7,87.2 Z" fill="none" stroke="rgba(0,0,0,.7)" stroke-width="4.5" stroke-linejoin="round"/><path d="M160.8,90.0 L160.9,92.9 L160.0,95.7 L158.5,98.4 L156.6,100.9 L154.5,103.3 L152.4,105.5 L150.6,107.7 L149.0,109.8 L147.7,112.1 L146.4,114.3 L145.0,116.6 L143.4,118.7 L141.6,120.6 L139.3,122.2 L136.7,123.4 L133.9,124.3 L131.1,124.9 L128.2,125.3 L125.5,125.8 L123.1,126.4 L120.9,127.2 L118.8,128.4 L116.8,129.9 L114.8,131.5 L112.7,133.1 L110.4,134.4 L107.9,135.3 L105.3,135.6 L102.6,135.2 L100.0,134.1 L97.5,132.5 L95.3,130.6 L93.3,128.7 L91.3,127.1 L89.4,126.0 L87.3,125.5 L84.9,125.7 L82.1,126.6 L78.8,127.8 L75.1,129.3 L71.0,130.6 L66.9,131.4 L62.9,131.7 L59.2,131.2 L56.0,130.0 L53.5,128.1 L51.7,125.6 L50.4,122.7 L49.7,119.7 L49.3,116.6 L49.1,113.6 L48.9,110.7 L48.8,107.9 L48.6,105.2 L48.6,102.5 L48.8,99.9 L49.3,97.3 L50.4,94.7 L51.8,92.3 L53.7,90.0 L55.9,87.9 L58.0,86.0 L60.0,84.2 L61.5,82.6 L62.4,80.8 L62.6,79.0 L62.2,76.8 L61.2,74.3 L59.9,71.4 L58.7,68.3 L57.8,65.1 L57.5,61.9 L57.9,59.0 L59.1,56.5 L61.0,54.6 L63.6,53.2 L66.5,52.4 L69.6,52.0 L72.6,51.7 L75.5,51.3 L78.0,50.7 L80.3,49.7 L82.4,48.3 L84.4,46.4 L86.5,44.2 L88.8,42.0 L91.3,39.9 L94.0,38.3 L97.0,37.2 L100.0,36.8 L103.1,37.0 L106.0,37.9 L108.9,39.2 L111.5,40.7 L114.1,42.3 L116.5,43.9 L118.9,45.3 L121.2,46.7 L123.5,48.1 L125.7,49.6 L127.7,51.3 L129.4,53.3 L130.6,55.6 L131.4,58.3 L131.7,61.2 L131.7,64.1 L131.4,66.9 L131.1,69.4 L131.2,71.6 L131.8,73.3 L133.2,74.6 L135.4,75.7 L138.5,76.6 L142.3,77.5 L146.4,78.7 L150.5,80.2 L154.3,82.2 L157.5,84.5 L159.7,87.2 Z" fill="none" stroke="var(--trace)" stroke-width="2.2" stroke-linejoin="round"/></svg><figcaption><b data-i="ex_c2">Errado: pequeno demais</b><br><span class="muted small" data-i="ex_c2b">corta por dentro e deixa parte da lesão de fora</span></figcaption></figure>
+        <figure class="no"><span class="selo" aria-hidden="true"><svg viewBox="0 0 24 24"><path d="M6 6l12 12M18 6L6 18" fill="none" stroke="#fff" stroke-width="3.5" stroke-linecap="round"/></svg></span><svg viewBox="0 0 200 180" role="img" aria-hidden="true"><defs><radialGradient id="gc" cx="48%" cy="45%" r="60%"><stop offset="0" stop-color="#4a2a17"/><stop offset=".6" stop-color="#7a4a2b"/><stop offset="1" stop-color="#a9724c"/></radialGradient><filter id="fc"><feGaussianBlur stdDeviation="1.6"/></filter></defs><rect width="200" height="180" rx="10" fill="#e8c6a8"/><path d="M178.4,90.0 L178.5,93.7 L177.6,97.4 L175.9,100.9 L173.8,104.3 L171.5,107.4 L169.2,110.4 L167.0,113.4 L165.1,116.4 L163.4,119.3 L161.6,122.3 L159.8,125.3 L157.7,128.1 L155.2,130.7 L152.4,132.9 L149.2,134.7 L145.7,136.2 L142.1,137.3 L138.6,138.3 L135.1,139.2 L131.9,140.2 L128.9,141.5 L126.0,143.0 L123.1,144.8 L120.3,146.7 L117.3,148.5 L114.1,150.1 L110.7,151.1 L107.1,151.5 L103.5,151.2 L100.0,150.1 L96.6,148.5 L93.5,146.5 L90.5,144.5 L87.7,142.7 L84.8,141.4 L81.9,140.7 L78.6,140.7 L74.9,141.2 L70.8,142.1 L66.3,143.1 L61.4,144.0 L56.5,144.4 L51.8,144.1 L47.4,143.1 L43.6,141.3 L40.4,138.8 L38.0,135.7 L36.2,132.1 L34.9,128.4 L34.1,124.6 L33.4,120.9 L32.8,117.2 L32.3,113.6 L31.9,110.1 L31.6,106.7 L31.6,103.2 L32.0,99.8 L32.9,96.4 L34.3,93.1 L36.1,90.0 L38.3,87.1 L40.5,84.3 L42.6,81.7 L44.3,79.2 L45.4,76.7 L45.9,74.0 L45.7,71.1 L45.1,67.8 L44.3,64.2 L43.5,60.3 L43.0,56.4 L43.2,52.5 L44.2,48.9 L46.0,45.8 L48.6,43.2 L51.8,41.3 L55.4,40.0 L59.2,39.0 L63.0,38.3 L66.7,37.5 L70.0,36.5 L73.1,35.1 L76.1,33.3 L79.0,31.1 L81.9,28.7 L85.1,26.3 L88.5,24.1 L92.2,22.3 L96.0,21.2 L100.0,20.8 L104.0,21.1 L107.9,22.0 L111.6,23.4 L115.2,25.0 L118.6,26.9 L121.9,28.7 L125.2,30.4 L128.4,32.1 L131.5,33.8 L134.5,35.7 L137.3,37.8 L139.7,40.3 L141.7,43.2 L143.2,46.4 L144.2,49.8 L144.7,53.4 L145.1,56.8 L145.4,60.0 L145.9,62.9 L147.1,65.3 L148.9,67.4 L151.5,69.1 L155.0,70.8 L159.0,72.6 L163.4,74.6 L167.7,76.9 L171.7,79.7 L175.0,82.8 L177.2,86.3 Z" fill="url(#gc)" filter="url(#fc)"/><path d="M196.0,90.0 L196.0,94.6 L195.1,99.1 L193.3,103.4 L191.0,107.6 L188.5,111.5 L185.9,115.4 L183.5,119.1 L181.2,122.9 L179.0,126.6 L176.9,130.3 L174.5,134.0 L171.9,137.5 L168.9,140.7 L165.5,143.6 L161.6,146.0 L157.5,148.1 L153.2,149.7 L148.9,151.2 L144.7,152.6 L140.7,154.1 L136.8,155.7 L133.1,157.6 L129.4,159.7 L125.7,161.9 L121.8,164.0 L117.7,165.7 L113.4,166.9 L109.0,167.4 L104.4,167.2 L100.0,166.1 L95.7,164.5 L91.6,162.5 L87.7,160.3 L84.0,158.4 L80.3,156.9 L76.4,155.9 L72.3,155.6 L67.8,155.8 L62.8,156.4 L57.5,157.0 L51.9,157.4 L46.2,157.3 L40.7,156.6 L35.6,155.0 L31.1,152.6 L27.3,149.5 L24.3,145.7 L22.0,141.5 L20.2,137.1 L18.8,132.6 L17.7,128.1 L16.8,123.7 L15.9,119.4 L15.1,115.1 L14.6,110.8 L14.4,106.5 L14.6,102.3 L15.3,98.1 L16.7,94.0 L18.5,90.0 L20.7,86.2 L23.0,82.6 L25.2,79.2 L27.1,75.9 L28.4,72.6 L29.2,69.1 L29.3,65.3 L29.0,61.3 L28.6,56.9 L28.2,52.3 L28.3,47.7 L29.0,43.1 L30.5,38.8 L32.9,35.1 L36.1,31.9 L40.0,29.4 L44.3,27.5 L48.9,26.1 L53.5,24.8 L57.9,23.6 L62.0,22.2 L66.0,20.5 L69.8,18.4 L73.5,15.9 L77.4,13.3 L81.4,10.7 L85.8,8.3 L90.3,6.4 L95.1,5.2 L100.0,4.8 L104.9,5.1 L109.7,6.1 L114.4,7.6 L118.8,9.4 L123.2,11.4 L127.4,13.4 L131.5,15.5 L135.5,17.5 L139.5,19.6 L143.3,21.8 L146.9,24.4 L150.1,27.4 L152.8,30.7 L155.0,34.5 L156.6,38.5 L157.8,42.7 L158.7,46.8 L159.6,50.6 L160.7,54.2 L162.3,57.3 L164.6,60.1 L167.6,62.6 L171.4,65.1 L175.7,67.6 L180.4,70.4 L185.0,73.6 L189.1,77.2 L192.5,81.2 L194.8,85.5 Z" fill="none" stroke="rgba(0,0,0,.7)" stroke-width="4.5" stroke-linejoin="round"/><path d="M196.0,90.0 L196.0,94.6 L195.1,99.1 L193.3,103.4 L191.0,107.6 L188.5,111.5 L185.9,115.4 L183.5,119.1 L181.2,122.9 L179.0,126.6 L176.9,130.3 L174.5,134.0 L171.9,137.5 L168.9,140.7 L165.5,143.6 L161.6,146.0 L157.5,148.1 L153.2,149.7 L148.9,151.2 L144.7,152.6 L140.7,154.1 L136.8,155.7 L133.1,157.6 L129.4,159.7 L125.7,161.9 L121.8,164.0 L117.7,165.7 L113.4,166.9 L109.0,167.4 L104.4,167.2 L100.0,166.1 L95.7,164.5 L91.6,162.5 L87.7,160.3 L84.0,158.4 L80.3,156.9 L76.4,155.9 L72.3,155.6 L67.8,155.8 L62.8,156.4 L57.5,157.0 L51.9,157.4 L46.2,157.3 L40.7,156.6 L35.6,155.0 L31.1,152.6 L27.3,149.5 L24.3,145.7 L22.0,141.5 L20.2,137.1 L18.8,132.6 L17.7,128.1 L16.8,123.7 L15.9,119.4 L15.1,115.1 L14.6,110.8 L14.4,106.5 L14.6,102.3 L15.3,98.1 L16.7,94.0 L18.5,90.0 L20.7,86.2 L23.0,82.6 L25.2,79.2 L27.1,75.9 L28.4,72.6 L29.2,69.1 L29.3,65.3 L29.0,61.3 L28.6,56.9 L28.2,52.3 L28.3,47.7 L29.0,43.1 L30.5,38.8 L32.9,35.1 L36.1,31.9 L40.0,29.4 L44.3,27.5 L48.9,26.1 L53.5,24.8 L57.9,23.6 L62.0,22.2 L66.0,20.5 L69.8,18.4 L73.5,15.9 L77.4,13.3 L81.4,10.7 L85.8,8.3 L90.3,6.4 L95.1,5.2 L100.0,4.8 L104.9,5.1 L109.7,6.1 L114.4,7.6 L118.8,9.4 L123.2,11.4 L127.4,13.4 L131.5,15.5 L135.5,17.5 L139.5,19.6 L143.3,21.8 L146.9,24.4 L150.1,27.4 L152.8,30.7 L155.0,34.5 L156.6,38.5 L157.8,42.7 L158.7,46.8 L159.6,50.6 L160.7,54.2 L162.3,57.3 L164.6,60.1 L167.6,62.6 L171.4,65.1 L175.7,67.6 L180.4,70.4 L185.0,73.6 L189.1,77.2 L192.5,81.2 L194.8,85.5 Z" fill="none" stroke="var(--trace)" stroke-width="2.2" stroke-linejoin="round"/></svg><figcaption><b data-i="ex_c3">Errado: grande demais</b><br><span class="muted small" data-i="ex_c3b">inclui pele normal em volta da lesão</span></figcaption></figure>
       </div>
     </div>
     <button class="primary" id="b-ir-cadastro" data-i="go">Começar</button>
@@ -179,7 +184,7 @@ const MODO='painel', BASE_SEMENTE=20261012, N_G=16, N_C=4, ZAP='5511976666697', 
 const CONV=(new URLSearchParams(location.search).get('c')||'').trim().toUpperCase();
 const $=id=>document.getElementById(id);
 let POOL=null, rodada=null, estado=null, img=new Image(), esconder=false;
-const EN={"proto": "Invited reviewer panel. This link is personal: do not forward it.", "t1": "Which outline follows the lesion border?", "p1": "You will see 20 dermoscopic photographs of skin lesions. Each one shows two outlines, A and B, drawn by different sources. Choose the one that follows the lesion border more closely.", "p2": "It takes about 6 minutes. You do not need to identify the lesion or give a diagnosis. You will not know who drew each outline; your summary appears at the end.", "go": "Start", "t2": "Before you start", "area": "Your background", "c1": "Physician, dermatologist", "c2": "Physician, other specialty", "c3": "Nurse", "c4": "Health sciences student", "c5": "Other health profession", "c6": "Other field", "anos": "Years of practice (0 if student or other field)", "tcle": "You take part as a <b>collaborating reviewer</b> on the De Olho na Pele project team. The photos are public and anonymous. We record only your name, background, years of practice and your choices on the 20 screens. Your name and background appear in the article acknowledgements. Nothing else is collected. Lead: Fabio da Camara Oliveira Ferreira (ORCID 0009-0009-0997-3275).", "aceite": "I agree to take part as a collaborating reviewer and to be named in the acknowledgements with my name and background.", "ini": "Go to the first photo", "q": "Which outline follows the lesion border more closely?", "hide": "Hide the outlines", "show": "Show the outlines", "t3": "Thank you, reviewer!", "p3": "This is the summary of your 20 choices. For each source it shows how many times its outline appeared and how many times you chose it. It does not show which outline came from which source in each photo.", "h1": "Outline source", "h2": "Shown", "h3": "Chosen", "cod": "Your answer code.", "copy": "Copy code", "p4": "Please do not discuss your result with people who have not taken part yet.", "rA": "A is better", "rB": "B is better", "rI": "Equivalent", "rN": "Neither", "of": "of", "saved": "Answer saved.", "copied": "Copied.", "selected": "Selected; press Ctrl+C.", "imgerr": "The photo did not load. Check your connection and reload the page.", "others": "Equivalent: {i} · Neither: {n}. The image-bank outline appears in every photo; the other sources take turns.", "codok": "Your answers have already been saved. Keep the code only as a receipt.", "codno": "Tap the green button to send your answers to Fabio on WhatsApp. If it does not open, copy the code and send it to him.", "n0": "Image-bank outline (ISIC)", "n1": "Independent tracer", "n2": "Neural network", "n3": "Written rule (engine)", "ex_t": "Before you start: what following the border means", "ex_p": "The lesion border is the limit where the pigmentation ends and normal skin begins. A good outline follows that limit. The drawing below is only a schematic example, not a photo from the study.", "ex_c1": "Follows the border", "ex_c1b": "tracks the limit between lesion and skin", "ex_c2": "Too small", "ex_c2b": "cuts inside and leaves part of the lesion out", "ex_c3": "Too large", "ex_c3b": "includes normal skin around the lesion", "nome": "Full name", "nomenota": "As it should appear in the article acknowledgements.", "zap": "Send to Fabio via WhatsApp", "semconv": "This link is personal and incomplete. Ask Fabio for your own link.", "feito": "This link has already been used on this device. If you need to redo it, talk to Fabio."}, PTX={"show": "Mostrar os contornos", "hide": "Esconder os contornos", "of": "de", "saved": "Resposta gravada.", "copied": "Copiado.", "selected": "Selecionado; use Ctrl+C.", "imgerr": "A foto não carregou. Verifique a conexão e recarregue a página.", "others": "Equivalentes: {i} · Nenhum dos dois: {n}. O traçado do banco aparece em todas as fotos; as outras fontes se revezam.", "codok": "Suas respostas já foram gravadas. Guarde o código só como comprovante.", "codno": "Toque no botão verde para enviar as suas respostas ao Fabio pelo WhatsApp. Se não abrir, copie o código e mande para ele.", "n0": "Traçado do banco de imagens (ISIC)", "n1": "Traçador independente", "n2": "Rede neural", "n3": "Regra escrita (motor)", "semconv": "Este link é pessoal e está incompleto. Peça o seu link ao Fabio.", "feito": "Este link já foi usado neste aparelho. Se precisar refazer, fale com o Fabio."}, PT={};
+const EN={"proto": "Invited reviewer panel. This link is personal: do not forward it.", "t1": "Which outline follows the lesion border?", "p1": "You will see 20 dermoscopic photographs of skin lesions. Each one shows two outlines, A and B, drawn by different sources. Choose the one that follows the lesion border more closely.", "p2": "It takes about 6 minutes. You do not need to identify the lesion or give a diagnosis. You will not know who drew each outline; your summary appears at the end.", "go": "Start", "t2": "Before you start", "area": "Your background", "c1": "Physician, dermatologist", "c2": "Physician, other specialty", "c3": "Nurse", "c4": "Health sciences student", "c5": "Other health profession", "c6": "Other field", "anos": "Years of practice (0 if student or other field)", "tcle": "You take part as a <b>collaborating reviewer</b> on the De Olho na Pele project team. The photos are public and anonymous. We record only your name, background, years of practice and your choices on the 20 screens. Your name and background appear in the article acknowledgements. Nothing else is collected. Lead: Fabio da Camara Oliveira Ferreira (ORCID 0009-0009-0997-3275).", "aceite": "I agree to take part as a collaborating reviewer and to be named in the acknowledgements with my name and background.", "ini": "Go to the first photo", "q": "Which outline follows the lesion border more closely?", "hide": "Hide the outlines", "show": "Show the outlines", "t3": "Thank you, reviewer!", "p3": "This is the summary of your 20 choices. For each source it shows how many times its outline appeared and how many times you chose it. It does not show which outline came from which source in each photo.", "h1": "Outline source", "h2": "Shown", "h3": "Chosen", "cod": "Your answer code.", "copy": "Copy code", "p4": "Please do not discuss your result with people who have not taken part yet.", "rA": "A is better", "rB": "B is better", "rI": "Equivalent", "rN": "Neither", "of": "of", "saved": "Answer saved.", "copied": "Copied.", "selected": "Selected; press Ctrl+C.", "imgerr": "The photo did not load. Check your connection and reload the page.", "others": "Equivalent: {i} · Neither: {n}. The image-bank outline appears in every photo; the other sources take turns.", "codok": "Your answers have already been saved. Keep the code only as a receipt.", "codno": "Tap the green button to send your answers to Fabio on WhatsApp. If it does not open, copy the code and send it to him.", "n0": "Image-bank outline (ISIC)", "n1": "Independent tracer", "n2": "Neural network", "n3": "Written rule (engine)", "ex_t": "Before you start: what following the border means", "ex_p": "The lesion border is the limit where the pigmentation ends and normal skin begins. A good outline follows that limit. The drawing below is only a schematic example, not a photo from the study.", "ex_c1": "Right: follows the border", "ex_c1b": "tracks the limit between lesion and skin", "ex_c2": "Wrong: too small", "ex_c2b": "cuts inside and leaves part of the lesion out", "ex_c3": "Wrong: too large", "ex_c3b": "includes normal skin around the lesion", "nome": "Full name", "nomenota": "As it should appear in the article acknowledgements.", "zap": "Send to Fabio via WhatsApp", "semconv": "This link is personal and incomplete. Ask Fabio for your own link.", "feito": "This link has already been used on this device. If you need to redo it, talk to Fabio."}, PTX={"show": "Mostrar os contornos", "hide": "Esconder os contornos", "of": "de", "saved": "Resposta gravada.", "copied": "Copiado.", "selected": "Selecionado; use Ctrl+C.", "imgerr": "A foto não carregou. Verifique a conexão e recarregue a página.", "others": "Equivalentes: {i} · Nenhum dos dois: {n}. O traçado do banco aparece em todas as fotos; as outras fontes se revezam.", "codok": "Suas respostas já foram gravadas. Guarde o código só como comprovante.", "codno": "Toque no botão verde para enviar as suas respostas ao Fabio pelo WhatsApp. Se não abrir, copie o código e mande para ele.", "n0": "Traçado do banco de imagens (ISIC)", "n1": "Traçador independente", "n2": "Rede neural", "n3": "Regra escrita (motor)", "semconv": "Este link é pessoal e está incompleto. Peça o seu link ao Fabio.", "feito": "Este link já foi usado neste aparelho. Se precisar refazer, fale com o Fabio."}, PT={};
 document.querySelectorAll('[data-i]').forEach(e=>PT[e.dataset.i]=e.innerHTML);
 Object.assign(PT,PTX);
 let LANG=(navigator.language||'pt').toLowerCase().startsWith('pt')?'pt':'en';
